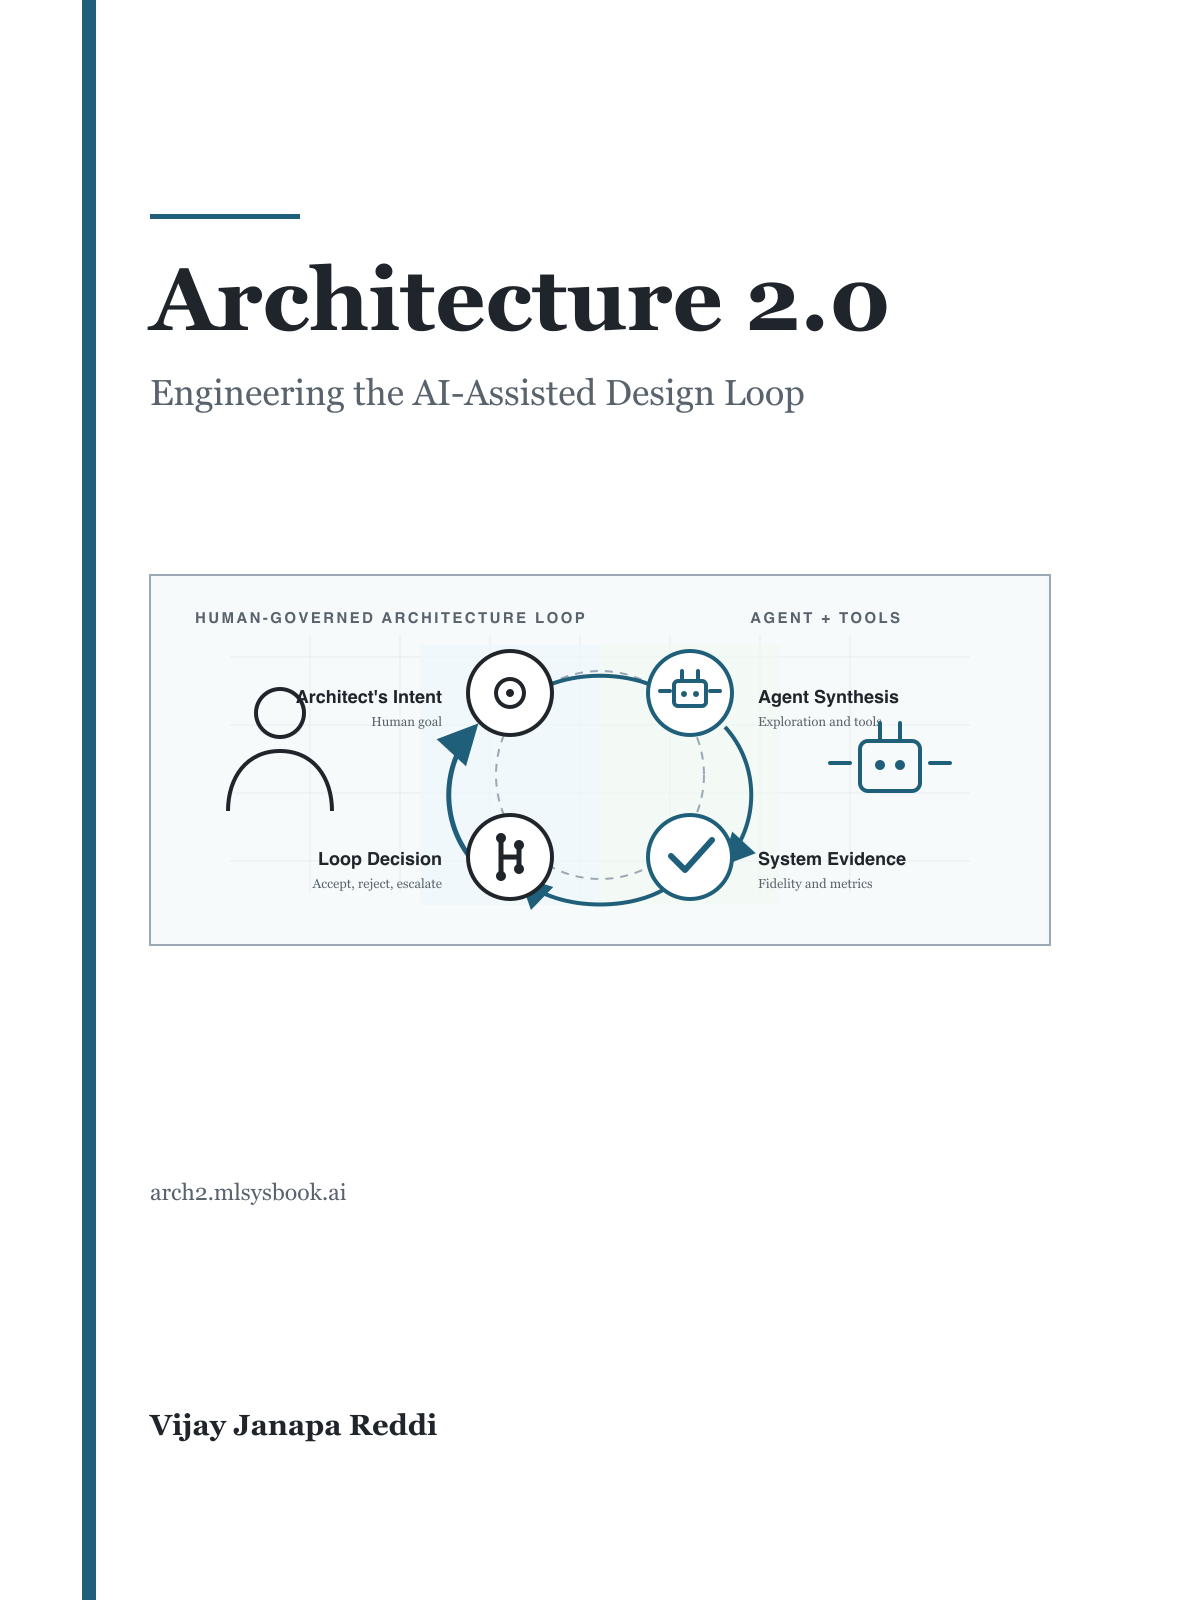
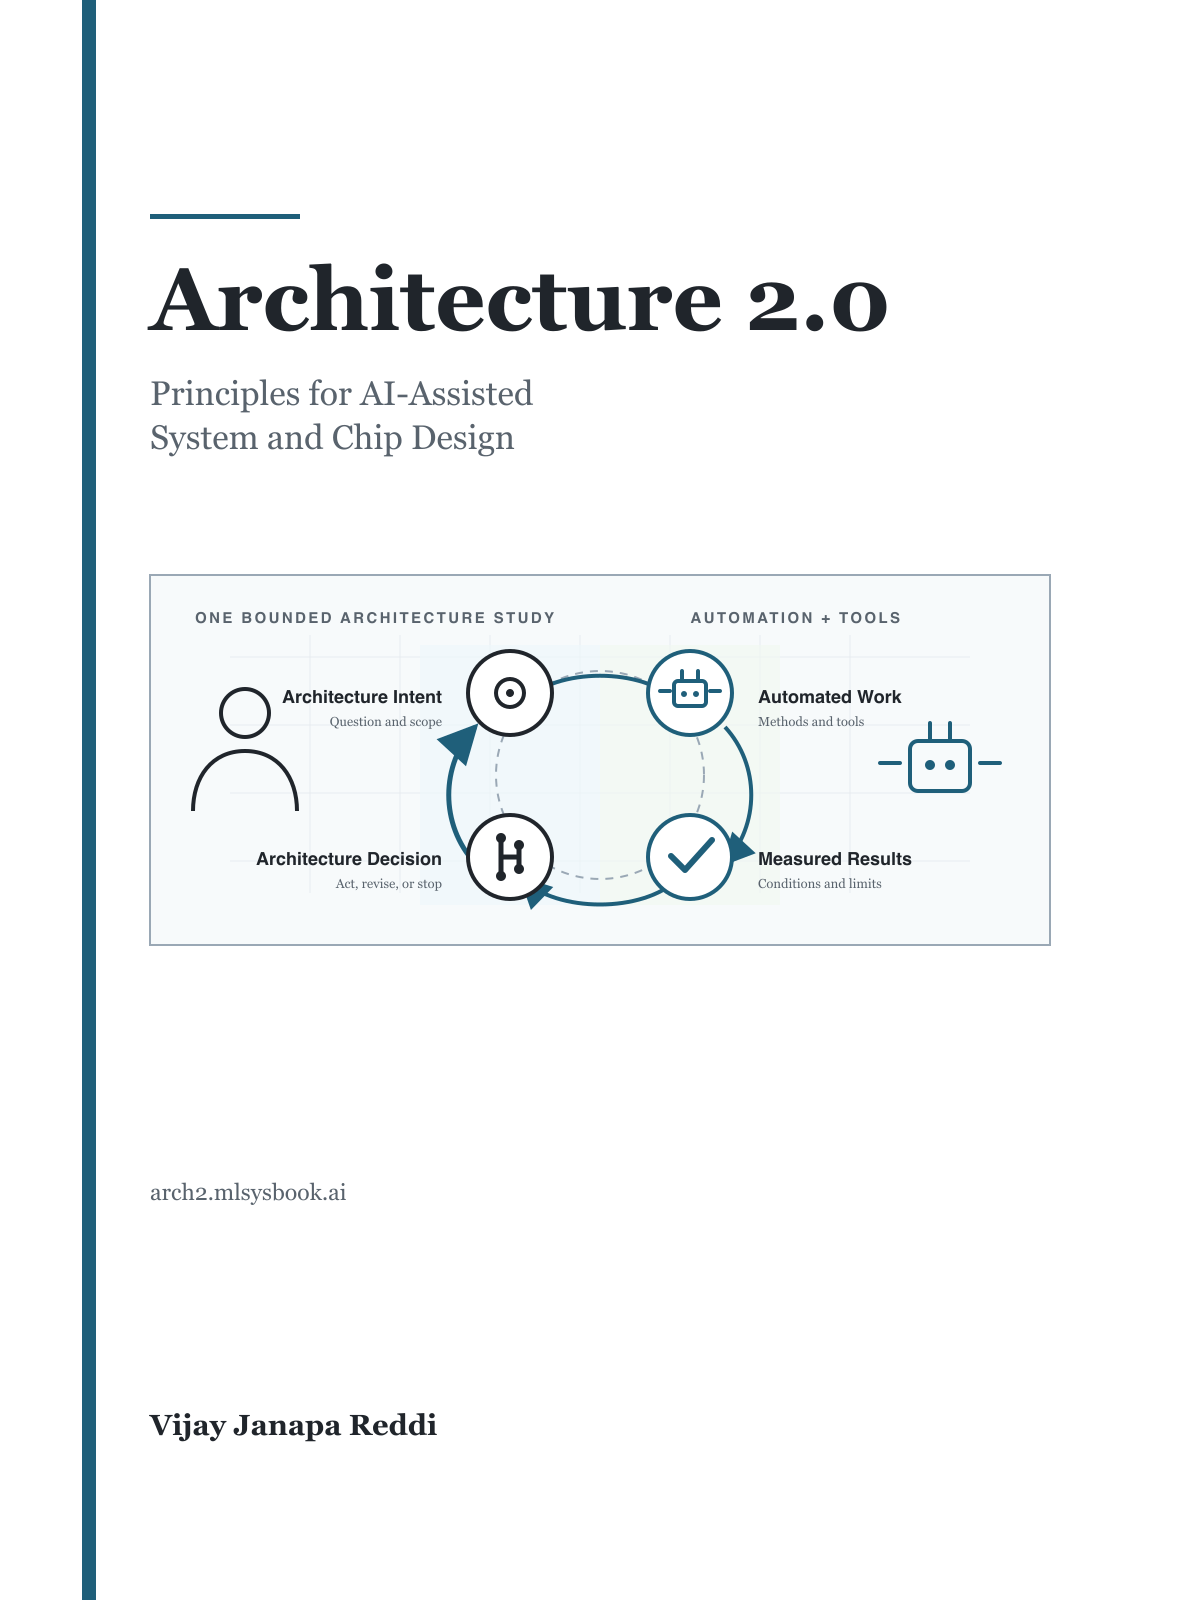
Update Architecture 2.0 subtitle

diff --git a/book/tex/springer-header.tex b/book/tex/springer-header.tex
@@ -171,13 +171,13 @@
     }
 
     \node[anchor=north west, font=\tiny\bfseries, text=archtwomuted] at (0.42,4.22)
-      {HUMAN-GOVERNED ARCHITECTURE LOOP};
+      {ONE BOUNDED ARCHITECTURE STUDY};
 
     \coordinate (center) at (5.425, 2.24);
 
     \fill[archtwobluefill, opacity=0.55] (3.00,0.56) rectangle (5.425,3.76);
     \fill[archtwogreenfill, opacity=0.55] (5.425,0.56) rectangle (7.85,3.76);
-    \node[anchor=north east, font=\tiny\bfseries, text=archtwomuted] at (10.43,4.22) {AGENT + TOOLS};
+    \node[anchor=north east, font=\tiny\bfseries, text=archtwomuted] at (10.43,4.22) {AUTOMATION + TOOLS};
 
     \draw[archtwoline, line width=0.6pt, dash pattern=on 3pt off 2pt] (center) circle (1.3cm);
 
@@ -206,19 +206,19 @@
     \draw[feedback] (N-decide) to[bend left=22] (N-intent);
 
     \node[motiflabel, left=0.22cm of N-intent, font=\scriptsize\bfseries, text=archtwoink, align=right] (L-intent) {
-      Architect's Intent \\[-3pt] \tiny\color{archtwomuted}\textnormal{Human Goal}
+      Architecture Intent \\[-3pt] \tiny\color{archtwomuted}\textnormal{Question and Scope}
     };
 
     \node[motiflabel, right=0.22cm of N-synthesis, font=\scriptsize\bfseries, text=archtwoink, align=left] (L-synthesis) {
-      Agent Synthesis \\[-3pt] \tiny\color{archtwomuted}\textnormal{Exploration \& Tools}
+      Automated Work \\[-3pt] \tiny\color{archtwomuted}\textnormal{Methods \& Tools}
     };
 
     \node[motiflabel, right=0.22cm of N-evidence, font=\scriptsize\bfseries, text=archtwoink, align=left] (L-evidence) {
-      System Evidence \\[-3pt] \tiny\color{archtwomuted}\textnormal{Fidelity \& Metrics}
+      Measured Results \\[-3pt] \tiny\color{archtwomuted}\textnormal{Conditions \& Limits}
     };
 
     \node[motiflabel, left=0.22cm of N-decide, font=\scriptsize\bfseries, text=archtwoink, align=right] (L-decide) {
-      Loop Decision \\[-3pt] \tiny\color{archtwomuted}\textnormal{Accept / Reject / Escalate}
+      Architecture Decision \\[-3pt] \tiny\color{archtwomuted}\textnormal{Act / Revise / Stop}
     };
 
   \end{tikzpicture}%
